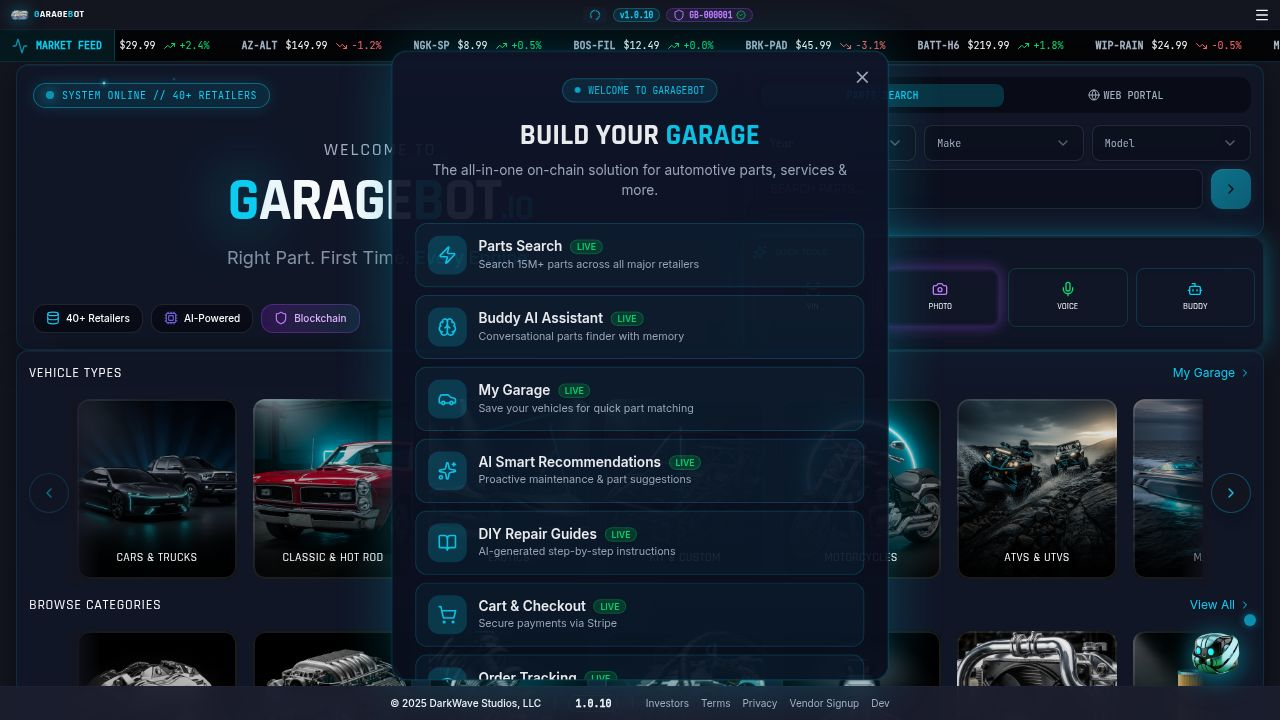
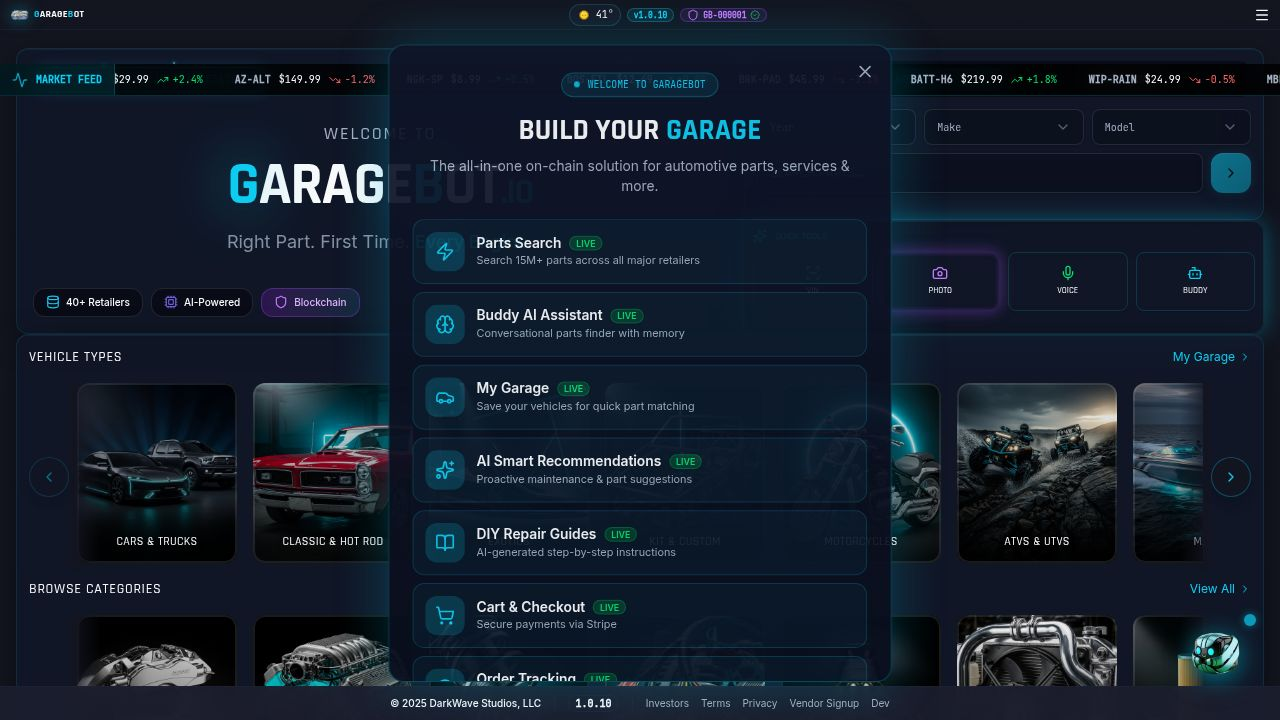
Restored to '9a0d35a74e60918c0549f91cf7c7db68a6fefdd8'
Replit-Restored-To: 9a0d35a74e60918c0549f91cf7c7db68a6fefdd8

diff --git a/server/routes.ts b/server/routes.ts
@@ -1,6 +1,5 @@
 import type { Express } from "express";
 import { createServer, type Server } from "http";
-import { createHash, randomBytes } from "crypto";
 import { storage } from "./storage";
 import { setupAuth, isAuthenticated } from "./replitAuth";
 import { insertVehicleSchema, insertDealSchema, insertHallmarkSchema, insertVendorSchema, insertWaitlistSchema, insertServiceRecordSchema, insertServiceReminderSchema, insertAffiliatePartnerSchema, insertAffiliateNetworkSchema, insertAffiliateCommissionSchema, insertAffiliateClickSchema, insertPriceAlertSchema, insertSeoPageSchema, insertAnalyticsSessionSchema, insertAnalyticsPageViewSchema, insertAnalyticsEventSchema } from "@shared/schema";
@@ -5458,16 +5457,17 @@ export async function registerRoutes(
         tokenId: `RELEASE-${release.version}`,
         assetNumber: 0,
         transactionHash: result.txSignature || result.dataHash,
-        metadata: {
+        metadata: JSON.stringify({
           type: 'RELEASE_VERIFICATION',
           version: release.version,
           versionType: release.versionType,
           dataHash: result.dataHash,
           status: result.status,
           network: 'mainnet-beta',
-          entityType: 'release',
-          entityId: releaseId,
-        },
+        }),
+        solanaSignature: result.txSignature,
+        entityType: 'release',
+        entityId: releaseId,
         displayName: `GarageBot v${release.version}`,
         assetType: 'release',
       });
@@ -5533,7 +5533,7 @@ export async function registerRoutes(
                 make: vehicle.make,
                 model: vehicle.model,
                 vin: vehicle.vin,
-                trim: vehicle.trim,
+                nickname: vehicle.nickname,
               };
               const user = await storage.getUser(vehicle.userId);
               ownerInfo = user ? { id: user.id, username: user.username, email: user.email } : null;
@@ -6495,7 +6495,8 @@ export async function registerRoutes(
       }
       
       // Verify secret by comparing hash
-      const hashedInputSecret = createHash('sha256').update(apiSecret).digest('hex');
+      const crypto = require('crypto');
+      const hashedInputSecret = crypto.createHash('sha256').update(apiSecret).digest('hex');
       if (credential.apiSecret !== hashedInputSecret) {
         return res.status(401).json({ 
           error: 'INVALID_CREDENTIALS',
@@ -6669,10 +6670,10 @@ export async function registerRoutes(
         data: appointments.map(a => ({
           id: a.id,
           appointmentNumber: a.appointmentNumber,
-          type: a.serviceType,
+          type: a.appointmentType,
           status: a.status,
-          scheduledStart: a.scheduledStart,
-          scheduledEnd: a.scheduledEnd,
+          scheduledDate: a.scheduledDate,
+          scheduledTime: a.scheduledTime,
           notes: a.notes,
           createdAt: a.createdAt
         })),
@@ -6802,11 +6803,12 @@ export async function registerRoutes(
       const { name, scopes, environment, rateLimitPerDay } = req.body;
       
       // Generate API key and secret
-      const apiKey = `gb_${environment === 'sandbox' ? 'test_' : ''}${randomBytes(24).toString('hex')}`;
-      const rawSecret = randomBytes(32).toString('hex');
+      const crypto = require('crypto');
+      const apiKey = `gb_${environment === 'sandbox' ? 'test_' : ''}${crypto.randomBytes(24).toString('hex')}`;
+      const rawSecret = crypto.randomBytes(32).toString('hex');
       
       // Hash the secret before storing (using SHA-256)
-      const hashedSecret = createHash('sha256').update(rawSecret).digest('hex');
+      const hashedSecret = crypto.createHash('sha256').update(rawSecret).digest('hex');
       
       const credential = await storage.createPartnerApiCredential({
         shopId: req.params.shopId,
@@ -7126,5 +7128,6 @@ function parseUserAgentOS(userAgent: string): string {
 }
 
 function hashIP(ip: string): string {
-  return createHash('sha256').update(ip + 'garagebot-salt').digest('hex').substring(0, 16);
+  const crypto = require('crypto');
+  return crypto.createHash('sha256').update(ip + 'garagebot-salt').digest('hex').substring(0, 16);
 }

diff --git a/client/src/App.tsx b/client/src/App.tsx
@@ -7,7 +7,9 @@ import { CartProvider } from "@/hooks/useCart";
 import { useAnalytics } from "@/hooks/useAnalytics";
 import OnboardingModal from "@/components/OnboardingModal";
 import AIMascot from "@/components/AIMascot";
+import BuddyHideSeek from "@/components/BuddyHideSeek";
 import AddToHomeScreen from "@/components/AddToHomeScreen";
+import { BlockchainAnnouncement } from "@/components/FeatureAnnouncement";
 
 import gbEmblem from "@assets/generated_images/gb_emblem_no_bg.png";
 
@@ -93,9 +95,11 @@ function App() {
           <Toaster />
           <OnboardingModal />
           <AddToHomeScreen />
+          <BlockchainAnnouncement />
           <AnalyticsTracker />
           <Router />
           <AIMascot mascotName="Buddy" />
+          <BuddyHideSeek />
         </TooltipProvider>
       </CartProvider>
     </QueryClientProvider>

diff --git a/client/src/components/MarketTicker.tsx b/client/src/components/MarketTicker.tsx
@@ -13,7 +13,7 @@ const TICKER_ITEMS = [
 
 export default function MarketTicker() {
   return (
-    <div className="w-full bg-black/80 border-b border-primary/20 h-8 overflow-hidden flex items-center fixed top-[30px] left-0 right-0 z-40 backdrop-blur-md">
+    <div className="w-full bg-black/80 border-b border-primary/20 h-8 overflow-hidden flex items-center fixed top-16 z-40 backdrop-blur-md">
       <div className="px-3 h-full flex items-center bg-primary/10 border-r border-primary/20 z-10">
         <Activity className="w-4 h-4 text-primary animate-pulse" />
         <span className="ml-2 font-mono text-[10px] text-primary font-bold hidden md:inline">MARKET FEED</span>

diff --git a/client/src/pages/Home.tsx b/client/src/pages/Home.tsx
@@ -82,8 +82,8 @@ export default function Home() {
       <Nav />
       <MarketTicker />
       
-      {/* Main Content - adjusted for 30px header + 32px ticker */}
-      <div className="pt-16 min-h-screen pb-16">
+      {/* Main Content - adjusted for 30px header */}
+      <div className="pt-12 min-h-screen pb-16">
         
         {/* DESKTOP BENTO LAYOUT - Only visible on lg+ screens */}
         <div className="hidden lg:block w-full px-2 xl:px-4 2xl:px-8">

diff --git a/docs/feature_log.md b/docs/feature_log.md
@@ -1,24 +1,17 @@
 # GarageBot Feature Log & Variable Tracker
 
-**Last Updated: December 16, 2024**
-**Current Version: v1.0.10 (Blockchain Verified)**
[1 lines of base64/hex data omitted]
+**Last Updated: December 5, 2024 @ 7:35 PM EST**
+**Current Version: v1.0.3 (Blockchain Verified)**
[1 lines of base64/hex data omitted]
 
 ## Brand Identity
 - **Name:** GarageBot
 - **Tagline:** "Right Part. First Time. Every Engine."
 - **Domain:** garagebot.io (primary), garagebot.net (redirect)
-- **AI Mascot:** Buddy - cube-shaped AI assistant with conversational memory
+- **AI Mascot:** Buddy - gauge-eyed junkyard robot, conversational parts-finding assistant
 
 ## Version History
-- **v1.0.10 (Dec 7):** Partner API system, DarkWave ecosystem integration, enhanced Mechanics Garage
-- **v1.0.9 (Dec 6):** Release version control with blockchain verification
-- **v1.0.8 (Dec 6):** Member referral program, points-based rewards
-- **v1.0.7 (Dec 6):** Weather radar system with NOAA alerts
-- **v1.0.6 (Dec 5):** Dev Portal with analytics dashboard
-- **v1.0.5 (Dec 5):** Mechanics Garage shop management portal
-- **v1.0.4 (Dec 5):** Buddy AI compacted to cube design
-- **v1.0.3 (Dec 5):** UI polish, layout improvements, app hallmark badge
+- **v1.0.3 (Dec 5):** UI polish, layout improvements, app hallmark badge, weather/Buddy repositioning
 - **v1.0.2 (Dec 5):** AI-generated carousel images, Genesis Hallmark visual badges
 - **v1.0.1 (Dec 4):** Bug fixes and polish
 - **v1.0.0 (Dec 3):** Genesis Launch - full feature release
@@ -26,25 +19,23 @@
 ## Active Features (Completed)
 *   **Universal Search Engine:** Aggregates results from 40+ retailers based on Year/Make/Model.
 *   **"My Garage" Fleet Management:** Saves vehicle specs for all vehicle types with VIN decoding.
-*   **AI Assistant "Buddy":** Compact cube design (64px/80px) with conversational memory, smart recommendations, and welcome popup.
+*   **AI Assistant "Buddy":** Conversational search with memory, smart recommendations, and animated mascot (1.5x larger, bottom-right positioning).
 *   **Glossary System:** Interactive definitions with Buddy mascot popups.
-*   **Developer Portal (PIN: 0424):** Mission Control for system monitoring, affiliate tracking, and release management.
+*   **Developer Dashboard:** "Mission Control" for system monitoring and affiliate tracking.
 *   **Shopping Cart:** Multi-vendor cart with Stripe checkout.
 *   **Vehicle Type Selector:** Support for 18+ vehicle categories including cars, trucks, motorcycles, ATVs, boats, RVs, diesel, small engines, Chinese imports.
-*   **Genesis Hallmark:** On-chain vehicle identity with Solana mainnet verification, numbered badges with purple holographic styling ($9.99 free / $1.99 Pro).
+*   **Genesis Hallmark ($2/vehicle):** On-chain vehicle identity with Solana mainnet verification, numbered badges with purple holographic styling.
 *   **App Hallmark Badge:** Clickable GB-000001 badge in header linking to Genesis Hallmark page.
 *   **Vehicle Passport:** VIN-decoded vehicle info with NHTSA recalls integration.
-*   **Pro Subscription (Founders Circle):** $4.99/month or $39.99/year with Stripe integration. Price locks for early adopters.
+*   **Pro Subscription ($2.99/month):** Founders Circle pricing with Stripe integration.
 *   **DIY Repair Guides:** AI-generated step-by-step maintenance instructions with YouTube links.
 *   **Insurance Comparison:** Multi-carrier quotes page with lead generation.
-*   **Mechanics Garage ($29.99/mo):** Full shop management portal for professional mechanics with CRM, orders, appointments, and staff management.
-*   **Partner API System:** B2B RESTful API for Mechanics Garage shops with scoped authentication, rate limiting, and usage analytics.
-*   **Member Referral Program:** Points-based referral system (100 pts/signup, 500 pts/Pro conversion) with tier redemption.
-*   **Weather Radar:** Live weather with RainViewer radar and NOAA storm alerts.
-*   **Release Version Control:** Draft → Publish workflow with automatic Solana blockchain verification.
-*   **DarkWave Developer Hub Integration:** ORBIT Ecosystem connection for staff/contractor sync.
+*   **Mechanics Garage:** Shop management portal for professional mechanics.
+*   **Member Referral Program:** Points-based referral system with signup tracking and Pro conversion bonuses.
+*   **Weather Widget:** Live weather with radar integration and storm alerts (bottom-left positioning).
 *   **Bento Grid Layout:** Consistent max-w-6xl containers across all pages.
-*   **Image Carousels:** AI-generated images for vehicle types and categories.
+*   **Image Carousels:** AI-generated images for vehicle types and categories with horizontal navigation.
+*   **Release Version Control:** Timestamped versions with blockchain verification.
 
 ## Planned Features (Backlog)
 *   **Local Pickup Integration:**
@@ -66,15 +57,13 @@
 
 ## Key Variables & Configuration
 *   **Affiliate Rates:** 5-8% average.
-*   **Genesis Hallmark Price:** $9.99 (free users) / $1.99 (Pro members).
-*   **Pro Subscription (Founders Circle):** $4.99/month or $39.99/year (increases to $9.99/mo post-V2).
-*   **Mechanics Garage:** $29.99/month or $249.99/year (increases to $49.99/mo post-V2).
+*   **Genesis Hallmark Price:** $2 per vehicle.
+*   **Pro Subscription Cost:** $2.99/month.
 *   **Stripe Fees:** 2.9% + $0.30 per transaction.
 *   **Tech Stack:**
     *   Web: React 18, Vite, Tailwind CSS, shadcn/ui.
     *   Backend: Node.js/Express, PostgreSQL, Drizzle ORM.
     *   AI: OpenAI GPT-4 for Buddy assistant.
-    *   Blockchain: Solana via Helius RPC.
     *   Mobile: React Native (Planned).
 
 ## Supported Vehicle Types

diff --git a/docs/business_plan.md b/docs/business_plan.md
@@ -1,46 +1,34 @@
 # GarageBot Business Plan
 
-**Last Updated: December 16, 2024**
-**Current Version: v1.0.10 - Blockchain Verified on Solana Mainnet**
+**Last Updated: December 5, 2024**
+**Current Version: v1.0.3 - Blockchain Verified on Solana Mainnet**
 
 ## Executive Summary
 GarageBot is a next-generation auto parts aggregator designed to solve the fragmentation in the automotive aftermarket. By unifying inventory from major retailers (AutoZone, O'Reilly, etc.), online giants (RockAuto, Amazon), and specialty shops into a single "Time + Price" optimization engine, GarageBot empowers users to find the exact part they need at the best total cost of ownership (price + shipping + time).
 
 **Brand:** GarageBot - "Right Part. First Time. Every Engine."
 **Domain:** garagebot.io (primary), garagebot.net (redirect)
-**AI Mascot:** "Buddy" - Conversational cube-shaped AI assistant
+**AI Mascot:** "Buddy" - Conversational parts-finding assistant
 
 ## Core Value Proposition
 *   **Universal Vehicle Coverage:** Not just cars - we cover ALL vehicle types: cars, trucks, motorcycles, ATVs, UTVs, boats, RVs, diesel/commercial, small engines, and even Chinese imports.
 *   **AI-Powered Search:** Buddy, our conversational AI assistant, understands natural language queries and can identify parts from photos.
 *   **Time + Price Optimization:** We don't just find the cheapest part; we find the best balance of cost and speed (e.g., "Get it now for $60" vs. "Get it in 2 days for $40").
 *   **Hybrid Fulfillment:** Prioritizing local pickup for immediate needs while offering shipping options for cost savings.
-*   **Tech-Forward Experience:** A sleek, modern "Deep Space / Future Forward" interface with electric cyan accents.
+*   **Tech-Forward Experience:** A sleek, modern interface that appeals to both younger enthusiasts and seasoned mechanics.
 
 ## Revenue Models
 1.  **Affiliate Commission:** Earn 5-8% on referrals to partner retailers.
-2.  **Genesis Hallmark:** On-chain vehicle identity and history verification ($9.99 for free users, $1.99 for Pro members - 80% savings).
-3.  **Pro Subscription (Founders Circle - $4.99/mo or $39.99/yr):**
-    *   Unlimited vehicles in garage
-    *   Genesis Hallmark at 80% discount
-    *   Real-time Price Drop Alerts
-    *   Saved DIY repair progress
-    *   Advanced Buddy AI with proactive alerts
-    *   Extended recall monitoring (90 days)
-    *   Family sharing (up to 10 members)
-    *   Exclusive Pro-only deals
-    *   *Note: Price increases to $9.99/mo after V2 launch*
-4.  **Mechanics Garage ($29.99/mo or $249.99/yr):**
-    *   Full shop management portal
-    *   Customer & vehicle CRM
-    *   Repair order tracking
-    *   Appointment scheduling
-    *   Staff accounts (up to 25)
-    *   Partner API access for integrations
-    *   Affiliate revenue analytics
-5.  **Direct Sales:** Integrated checkout via Stripe for parts purchases.
+2.  **Genesis Hallmark ($2/vehicle):** On-chain vehicle identity and history verification.
+3.  **Pro Subscription ($2.99/mo):**
+    *   Real-time Price Drop Alerts.
+    *   Advanced Wishlist & Project Tracking.
+    *   Warranty Tracking & Management.
+    *   Priority AI support.
+4.  **Direct Sales (Future):** Integrated checkout via Stripe, capturing a margin on select inventory.
+5.  **B2B Fleet Management:** Subscription tools for mechanics to manage bulk orders and fleet maintenance.
 6.  **Insurance Comparison:** Commission on insurance quote referrals.
-7.  **B2B Partner API:** API access for third-party integrations (included with Mechanics tier).
+7.  **Crypto Payments:** Leverage Coinbase Commerce to attract crypto-native users.
 
 ## Market Strategy
 *   **Target Audience:** DIY Enthusiasts, Professional Mechanics, Fleet Managers, Powersports Owners, Boat Owners.

diff --git a/replit.md b/replit.md
@@ -112,31 +112,3 @@ Preferred communication style: Simple, everyday language.
 - **UI/Frontend**: `@radix-ui/*`, `tailwindcss`, `framer-motion`, `wouter`, `@tanstack/react-query`, `@stripe/react-stripe-js`, `react-leaflet`, `leaflet`
 - **Backend**: `express`, `drizzle-orm`, `@neondatabase/serverless`, `stripe`, `openai`, `express-session`, `passport`, `connect-pg-simple`, `@solana/web3.js`
 - **Build Tools**: `vite`, `esbuild`, `tsx`
-
-# Recent Updates (December 2024)
-
-## December 16, 2024 - Pre-Publish Sweep
-- Fixed crypto module import issue causing analytics session errors
-- Updated business_plan.md and feature_log.md with current pricing:
-  - Pro: $4.99/mo or $39.99/yr (Founders Circle)
-  - Mechanics: $29.99/mo or $249.99/yr
-  - Hallmark: $9.99 free / $1.99 Pro
-- Corrected version references to v1.0.10
-- Fixed Partner API appointment field mappings (scheduledStart/End)
-- Resolved LSP type errors in routes.ts
-- Verified database connections healthy
-- Confirmed Dev Portal PIN: 0424
-
-## December 7, 2024 - Partner API & Security
-- Implemented Partner API system for Mechanics Garage B2B integrations
-- API Key + Secret authentication with SHA-256 hashing
-- Secrets hashed before storage, shown only once at creation
-- Scoped permissions and rate limiting
-- DarkWave Developer Hub ecosystem integration
-
-## Pricing Summary (Current - Founders Circle)
-| Tier | Monthly | Annual | Notes |
-|------|---------|--------|-------|
-| Pro | $4.99 | $39.99 | Increases to $9.99/mo post-V2 |
-| Mechanics | $29.99 | $249.99 | Includes Partner API |
-| Hallmark | $9.99 (free) / $1.99 (Pro) | - | 80% Pro discount |
